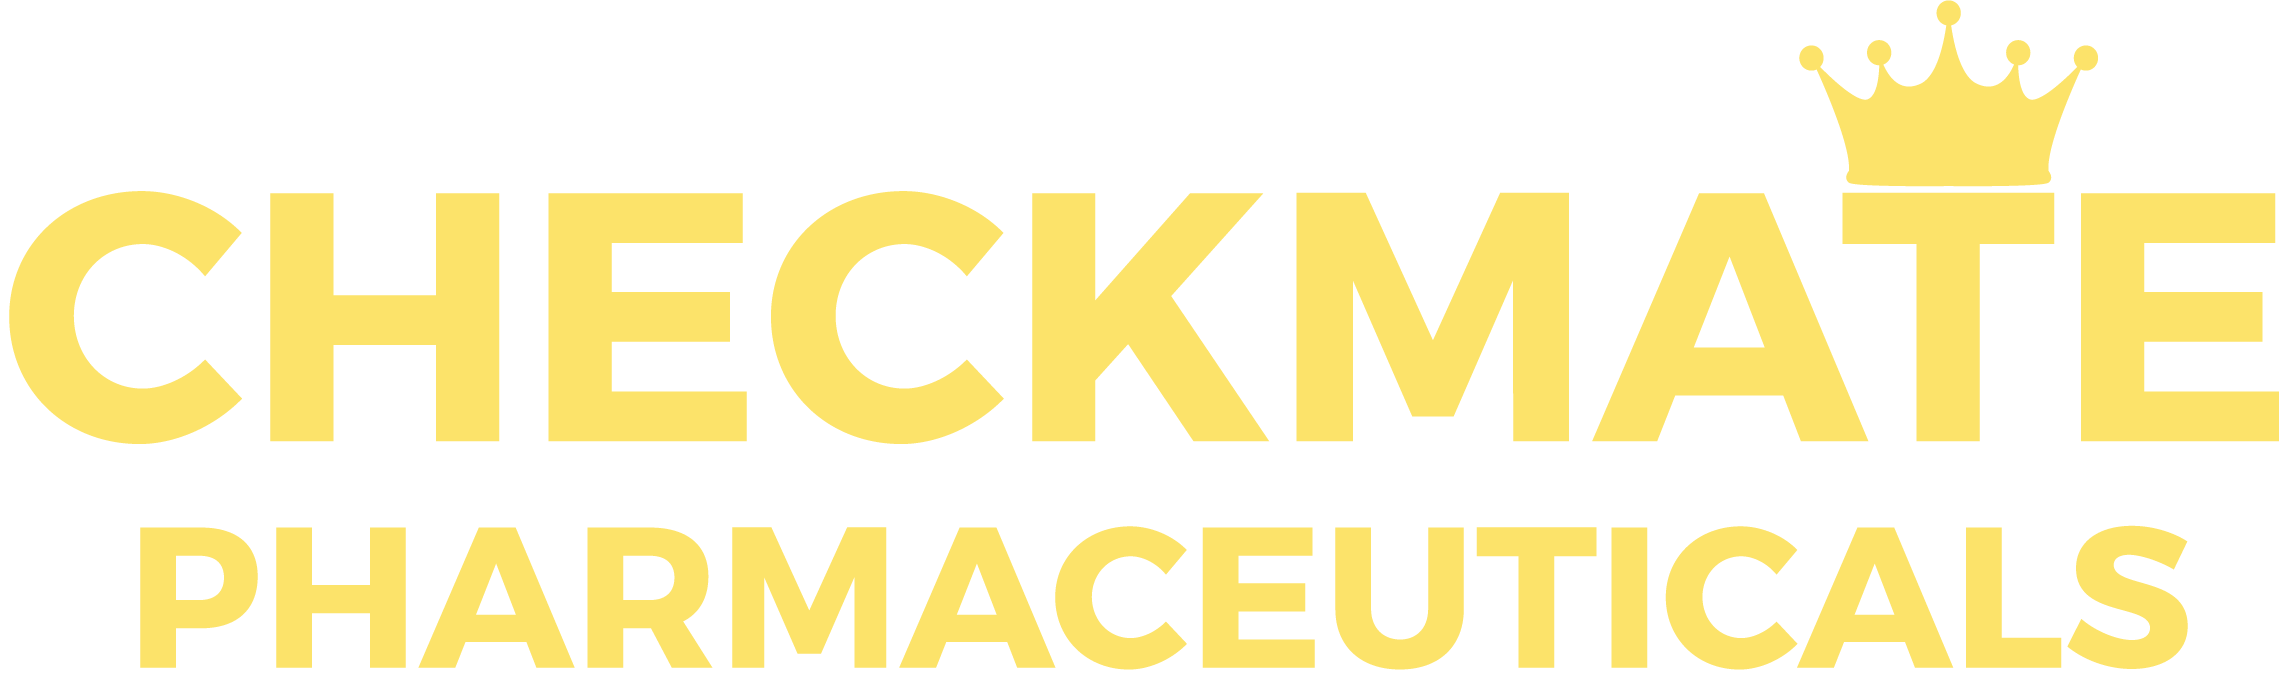
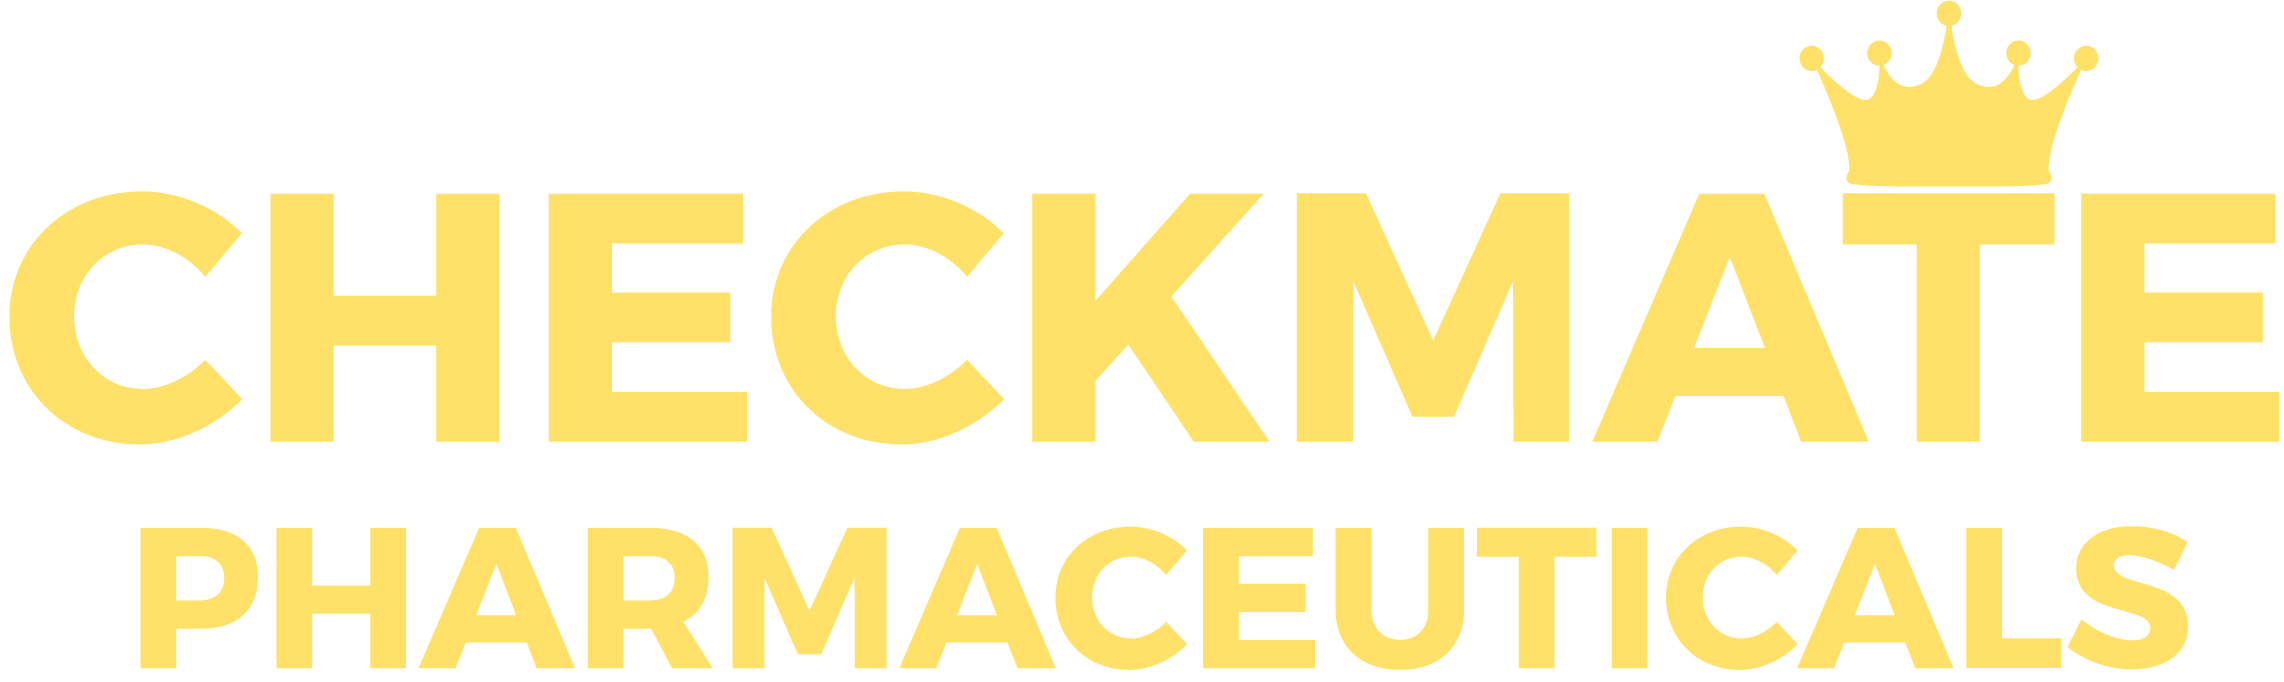
tweaked fonts per request.  made checkmate header a png in rgb mode instead of cmyk, hopefully that will make it the right color of ffe16a

diff --git a/index.html b/index.html
@@ -110,15 +110,15 @@
       <div class="row">
         <div class="col-md-4 col-s-12">
           <h3>The immuno-oncology revolution</h3>
-          <p>Certain immune cells called “killer T cells” are able to destroy cancer cells, yet in most cancer patients they fail to do this effectively.  For decades scientists and physicians have tried to activate these immune cells to reject cancer, mostly with little success.  It is now known that most tumors use “immune checkpoint proteins” that switch off the killer T cells before they can destroy the tumor.  This discovery of immune checkpoints has led to the development of several “checkpoint inhibitors” including for example pembrolizumab and nivolumab, both of which block the PD-1 checkpoint.  These and other checkpoint inhibitors have ignited a potential revolution in cancer therapy, because about 15-30% of patients with many different types of advanced cancer have had excellent responses to this therapy.</p> 
+          <p class="first-info-about">Certain immune cells called “killer T cells” are able to destroy cancer cells, yet in most cancer patients they fail to do this effectively.  For decades scientists and physicians have tried to activate these immune cells to reject cancer, mostly with little success.  It is now known that most tumors use “immune checkpoint proteins” that switch off the killer T cells before they can destroy the tumor.  This discovery of immune checkpoints has led to the development of several “checkpoint inhibitors” including for example pembrolizumab and nivolumab, both of which block the PD-1 checkpoint.  These and other checkpoint inhibitors have ignited a potential revolution in cancer therapy, because about 15-30% of patients with many different types of advanced cancer have had excellent responses to this therapy.</p> 
         </div>
         <div class="col-md-4 col-s-12">
           <h3>Why do so few patients respond to checkpoint inhibitors?</h3>
-          <p>If a cancer patients’ immune system has already been activated and is poised to kill their tumor, then treatment with a checkpoint inhibitor can release the immune system, allowing it to destroy the tumor (see example <a target="blank" href="http://www.npr.org/blogs/health/2015/02/09/373292216/harnessing-the- immune-system-to-fight-cancer">here</a>). Unfortunately in most cancer patients the immune system is not already activated to kill the tumor, and so treatment with the checkpoint inhibitor does not provide any benefit and may cause significant toxicity. The checkpoint inhibitor essentially takes the brakes off the immune system, but does not tell it where to go or what to do.</p> 
+          <p class="first-info-about">If a cancer patients’ immune system has already been activated and is poised to kill their tumor, then treatment with a checkpoint inhibitor can release the immune system, allowing it to destroy the tumor (see example <a target="blank" href="http://www.npr.org/blogs/health/2015/02/09/373292216/harnessing-the- immune-system-to-fight-cancer">here</a>). Unfortunately in most cancer patients the immune system is not already activated to kill the tumor, and so treatment with the checkpoint inhibitor does not provide any benefit and may cause significant toxicity. The checkpoint inhibitor essentially takes the brakes off the immune system, but does not tell it where to go or what to do.</p> 
         </div>
         <div class="col-md-4 col-s-12">
           <h3>How can the response to checkpoint inhibitors be improved?</h3>
-          <p>Many scientists believe that the response to checkpoint inhibitors would be dramatically increased if combined with an immune activator to stimulate an killer T cell attack against the tumor.  Many different immune activators have been tested in animals and humans, and the one that has so far been the strongest at activating anti-tumor killer T cells is called CpG DNA.  Checkmate’s founder and CEO, Dr. Art Krieg, discovered CpG DNA in 1994.  Since then several different CpG DNAs have been administered to thousands of humans showing strong immune activation and an excellent safety profile.   By itself, CpG rarely triggers the immune system to reject cancer – we believe that it needs to be combined with a checkpoint inhibitor to release the immune brakes at the same time as the CpG activates it.  Checkmate intends to pursue this approach in cancer therapy.</p> 
+          <p class="first-info-about">Many scientists believe that the response to checkpoint inhibitors would be dramatically increased if combined with an immune activator to stimulate an killer T cell attack against the tumor.  Many different immune activators have been tested in animals and humans, and the one that has so far been the strongest at activating anti-tumor killer T cells is called CpG DNA.  Checkmate’s founder and CEO, Dr. Art Krieg, discovered CpG DNA in 1994.  Since then several different CpG DNAs have been administered to thousands of humans showing strong immune activation and an excellent safety profile.   By itself, CpG rarely triggers the immune system to reject cancer – we believe that it needs to be combined with a checkpoint inhibitor to release the immune brakes at the same time as the CpG activates it.  Checkmate intends to pursue this approach in cancer therapy.</p> 
         </div>
       </div>
       <div class="row ">
@@ -132,7 +132,7 @@
         <div class="row panel1">
           <div class="col-md-6">
             <h3>Tumors normally prevent T cell activation </h3>
-            <p>Cytotoxic T lymphocytes (CTL) have the potential to kill tumor cells but normally do not because i) they do not receive adequate levels of the three required stimulatory signals; and/or ii) they are arrested by inhibitory signals or “checkpoints” that turn them off (e.g. through PD-1 and CTLA-4).   In order to be fully activated and kill tumor cells, CTL must receive three stimulatory signals from a dendritic cell (DC):  1) a tumor antigen must be “presented” to the T cell receptor (TCR); 2) “costimulation” must be provided through CD28 on the T cell; and 3) type I interferons (IFN) must stimulate the DC and T cells through the type I IFN receptor (IFNα/βR).  Successful tumors capable of immune evasion can prevent the CTL response by recruiting immature plasmacytoid DC (pDC) that provide only weak stimulatory signals (indicated by the small “+” signs), and promote dominant  inhibitory effects (indicated by the larger “-“ signs) through the “checkpoint” molecules CTLA-4 and PD-L1. Thus successful tumors induce an environment in which the “-“ signals to CTL dominate over the “+” signals needed to kill the tumors.</p>
+            <p class="second-info-about">Cytotoxic T lymphocytes (CTL) have the potential to kill tumor cells but normally do not because i) they do not receive adequate levels of the three required stimulatory signals; and/or ii) they are arrested by inhibitory signals or “checkpoints” that turn them off (e.g. through PD-1 and CTLA-4).   In order to be fully activated and kill tumor cells, CTL must receive three stimulatory signals from a dendritic cell (DC):  1) a tumor antigen must be “presented” to the T cell receptor (TCR); 2) “costimulation” must be provided through CD28 on the T cell; and 3) type I interferons (IFN) must stimulate the DC and T cells through the type I IFN receptor (IFNα/βR).  Successful tumors capable of immune evasion can prevent the CTL response by recruiting immature plasmacytoid DC (pDC) that provide only weak stimulatory signals (indicated by the small “+” signs), and promote dominant  inhibitory effects (indicated by the larger “-“ signs) through the “checkpoint” molecules CTLA-4 and PD-L1. Thus successful tumors induce an environment in which the “-“ signals to CTL dominate over the “+” signals needed to kill the tumors.</p>
           </div>
           <div class="col-md-6">
             <img src="img/dna.gif" alt="">
@@ -142,7 +142,7 @@
         <div class="row panel2">
           <div class="col-md-6">
             <h3>CpG activates plasmacytoid DC, inducing CTL and tumor rejection in combination with anti-PD-1 </h3>
-            <p>Checkmate’s CpG DNA is the strongest stimulus known for pDC, acting through the endosomal Toll-like receptor 9 (TLR9) to provide all three of the stimulatory signals (green “+” signs) required to induce a maximal anti-tumor CTL response.  TLR9 signaling secondarily induces expression of the PD-1 checkpoint on T cells, which normally inhibits them.  However, in the presence of a checkpoint inhibitor antibody to either PD-1 (shown) or to PD-L1 (not shown) the fully activated T cells release cytotoxic factors such as perforins and granzymes (granules in T cell) that act to effectively eliminate the tumor cells. Combining a CpG DNA with a checkpoint inhibitor will lead to an environment that has a dominant “+” effect thus leading to tumor eradication by the CTLs.</p>
+            <p class="second-info-about">Checkmate’s CpG DNA is the strongest stimulus known for pDC, acting through the endosomal Toll-like receptor 9 (TLR9) to provide all three of the stimulatory signals (green “+” signs) required to induce a maximal anti-tumor CTL response.  TLR9 signaling secondarily induces expression of the PD-1 checkpoint on T cells, which normally inhibits them.  However, in the presence of a checkpoint inhibitor antibody to either PD-1 (shown) or to PD-L1 (not shown) the fully activated T cells release cytotoxic factors such as perforins and granzymes (granules in T cell) that act to effectively eliminate the tumor cells. Combining a CpG DNA with a checkpoint inhibitor will lead to an environment that has a dominant “+” effect thus leading to tumor eradication by the CTLs.</p>
           </div>
           <div class="col-md-6">
             <img src="img/dna.gif" alt="">
@@ -374,6 +374,7 @@
   <footer>
     <div class="container text-center">
       <p>Copyright &copy; Checkmate Pharma 2015</p>
+      <p class="webmaster">Website created by <a href="http://peterkrieg.com" target="blank">Peter Krieg</a></p>
     </div>
   </footer>
 

diff --git a/css/main.scss b/css/main.scss
@@ -518,9 +518,10 @@ section#about{
 	background-attachment: fixed;
 	padding: 100px 0;
 	height: auto;
-	p:not(.about-text){
-		font-size: 14px;
-		line-height: 22px;
+	p.first-info-about,
+	p.second-info-about{
+		font-size: 15px;
+		line-height: 23px;
 		text-align: left;
 		text-indent: 30px;
 	}
@@ -548,6 +549,9 @@ section#about{
 	div.moreabout{
 		img{
 			width: 90%;
+		}
+		p{
+			font-size: 15px;
 		}
 	}
 
@@ -589,9 +593,12 @@ section#team{
 		margin-bottom: 30px;
 	}
 	p.bio{
+		font-size: 15px;
+		@include tablet{
+			font-size: 16px;
+		}
 		margin-top: -20px;
 		text-align: left;
-		text-indent: 30px;
 		line-height: 22px;
 		display: none;
 		@include desktop{
@@ -645,6 +652,16 @@ section#contact{
 
 footer{
 	padding: 25px 0 10px;
+	p.webmaster{
+		font-size: 13px;
+		a{
+			color: $light;
+			text-decoration: underline;
+			&:hover{
+				color: $gold;
+			}
+		}
+	}
 }
 
 
